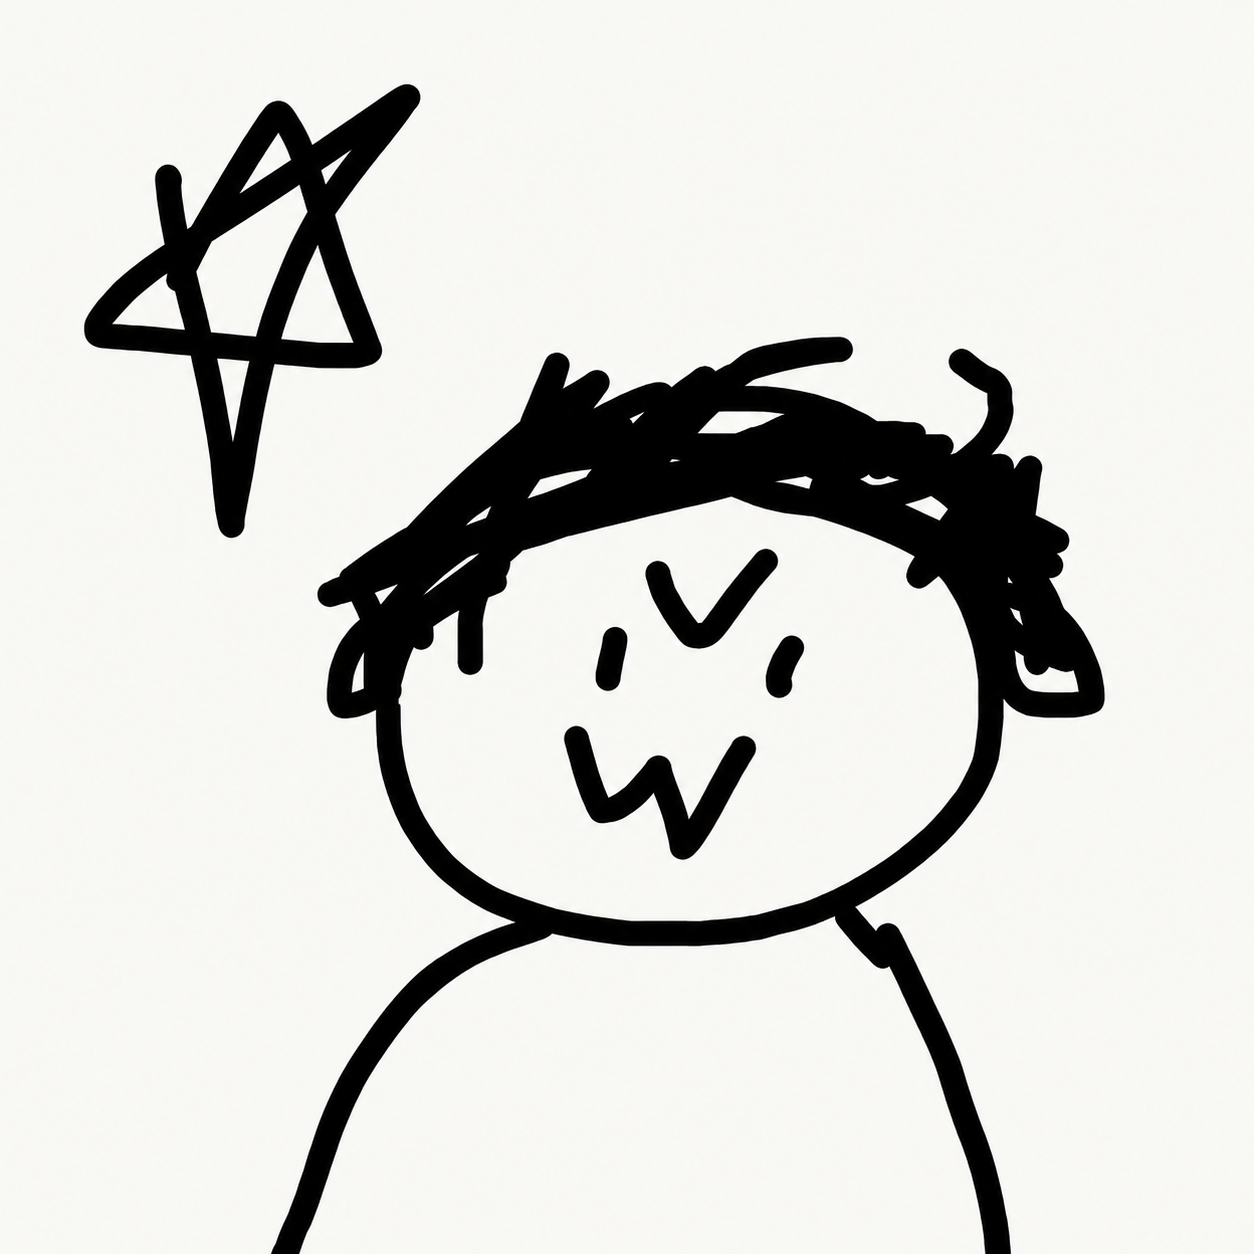
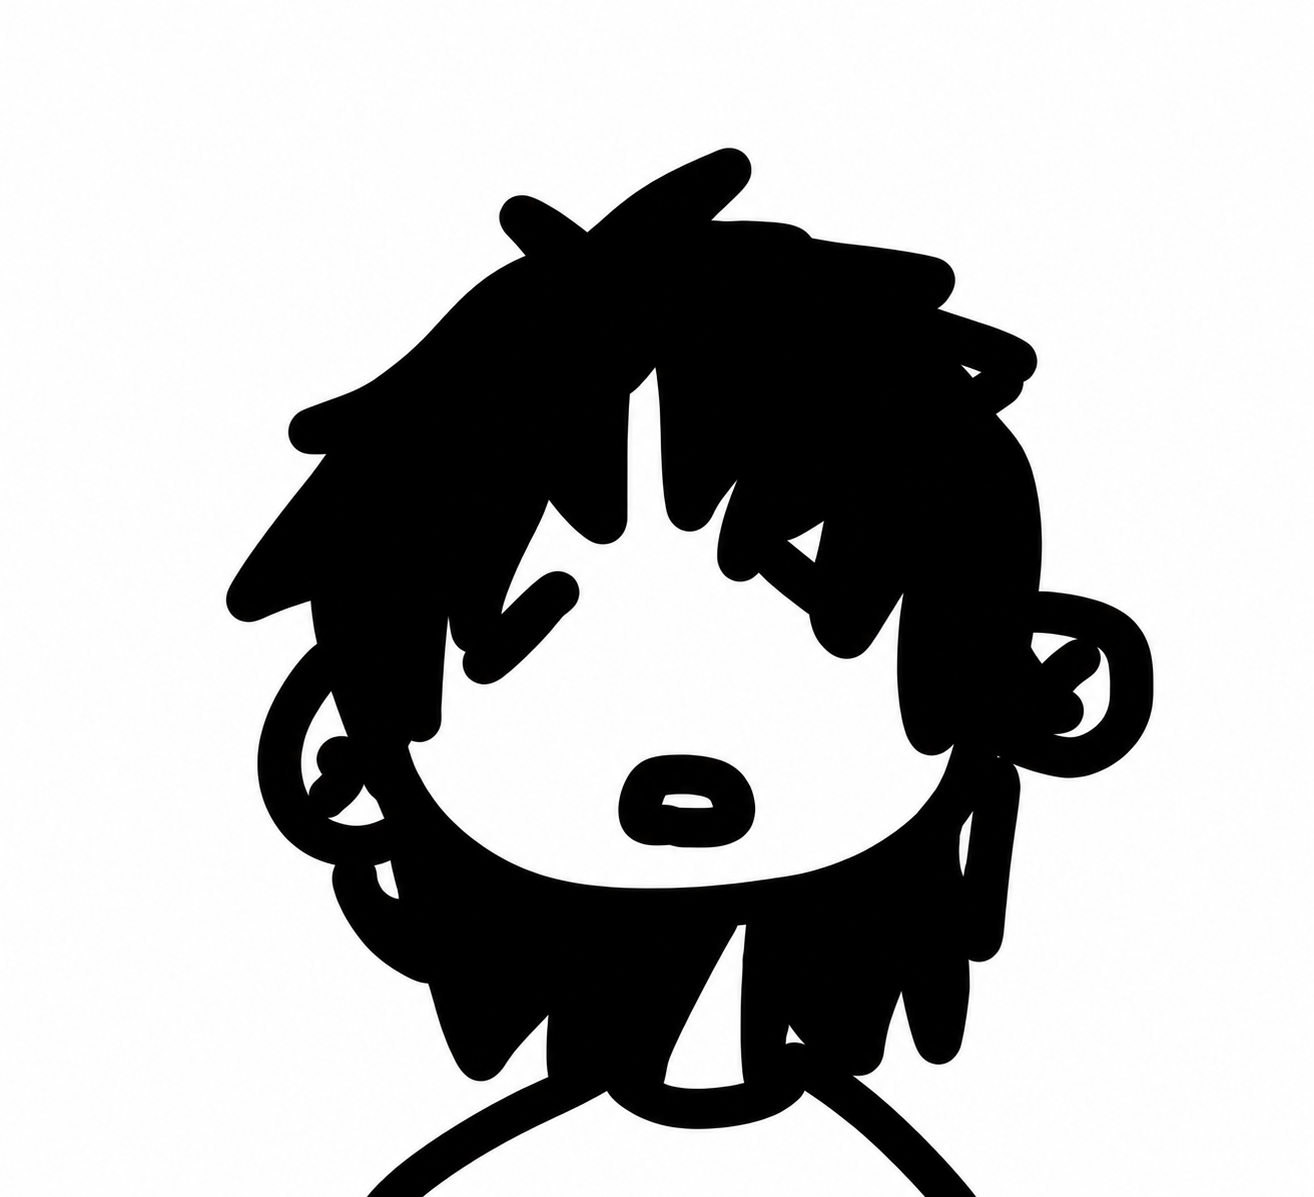
Update portfolio

Changed region(s): [[0.0622, 0.0618, 0.9019, 1.0], [0.4665, 0.4946, 0.4976, 0.5564], [0.3421, 0.4327, 0.3732, 0.4637]]

diff --git a/styles.css b/styles.css
@@ -11,6 +11,18 @@
     --radius: 3px;
   }
 
+  html.dark{
+    --paper: #050505;
+    --paper-dim: #0D0D0D;
+    --ink: #F2F2F2;
+    --ink-soft: #A6A6A6;
+    --ink-faint: #666666;
+    --line: #242424;
+    --accent: #35B8B5;
+    --accent-ink: #72D6D2;
+    --accent-tint: #102928;
+  }
+
   * { box-sizing: border-box; }
 
   html { scroll-behavior: smooth; }
@@ -23,6 +35,10 @@
     font-size:16px;
     line-height:1.6;
     -webkit-font-smoothing:antialiased;
+
+    transition:
+      background-color .25s ease,
+      color .25s ease;
   }
 
   a { color:inherit; }
@@ -49,7 +65,7 @@
     position:sticky;
     top:0;
     z-index:50;
-    background:rgba(250,250,248,0.86);
+    background:color-mix(in srgb, var(--paper) 86%, transparent);
     backdrop-filter: blur(8px);
     border-bottom:1px solid var(--line);
   }
@@ -93,6 +109,50 @@
     .nav-links a{ font-size:11px; }
   }
 
+  /* ---------- Theme Toggle ---------- */
+
+.theme-toggle{
+  width:38px;
+  height:38px;
+  display:flex;
+  align-items:center;
+  justify-content:center;
+  margin-left:24px;
+  padding:0;
+  border:1px solid var(--line);
+  border-radius:50%;
+  background:var(--paper);
+  color:var(--ink);
+  cursor:pointer;
+  font-family:'JetBrains Mono', monospace;
+  font-size:17px;
+  transition:
+    background .2s ease,
+    color .2s ease,
+    border-color .2s ease,
+    transform .2s ease;
+}
+
+.theme-toggle:hover{
+  border-color:var(--accent);
+  color:var(--accent-ink);
+  transform:rotate(10deg);
+}
+
+.theme-icon{
+  line-height:1;
+  display:block;
+}
+
+@media (max-width:640px){
+  .theme-toggle{
+    width:34px;
+    height:34px;
+    margin-left:12px;
+    font-size:15px;
+  }
+}
+
   /* ---------- Hero ---------- */
   .hero{
     padding:104px 0 88px;
@@ -123,7 +183,7 @@
     position:relative;
     z-index:1;
     width:100%;
-    aspect-ratio:4/5;
+    aspect-ratio:6/7;
     object-fit:cover;
     border-radius:var(--radius);
     border:1px solid var(--line);
@@ -199,6 +259,9 @@
     overflow:hidden;
     box-shadow: 0 1px 0 rgba(20,22,26,0.02);
   }
+  html.dark .console{
+    background:#000000;
+  }
   .console-bar{
     display:flex;
     align-items:center;
@@ -225,7 +288,13 @@
   }
   .console-body .prompt-line{ color:var(--ink-faint); }
   .console-body .prompt-line::before{ content:"> "; color:var(--accent); }
-  .console-out{ color:var(--ink); }
+  .console-out{
+    color:var(--ink);
+  }
+
+  html.dark .console-out{
+    color:#0E8E8D;
+  }
   .caret{
     display:inline-block;
     width:7px; height:15px;
@@ -284,7 +353,7 @@
   .config{
     border:1px solid var(--line);
     border-radius:var(--radius);
-    background:#fff;
+    background:var(--paper);
     overflow:hidden;
   }
   .config-title{
@@ -339,7 +408,7 @@
     border:1px solid var(--line);
     border-radius:20px;
     color:var(--ink-soft);
-    background:#fff;
+    background:var(--paper);
   }
   @media (max-width:760px){
     .skill-groups{ grid-template-columns:1fr; gap:26px; }
@@ -354,7 +423,7 @@
   .card{
     border:1px solid var(--line);
     border-radius:var(--radius);
-    background:#fff;
+    background:var(--paper);
     padding:26px 26px 24px;
     display:flex;
     flex-direction:column;

diff --git a/script.js b/script.js
@@ -1,4 +1,33 @@
-  // Signature hero element: types out a short rotating "model output"
+// ---------- Theme Toggle ----------
+
+const themeToggle = document.getElementById('themeToggle');
+const themeIcon = themeToggle.querySelector('.theme-icon');
+
+const savedTheme = localStorage.getItem('theme');
+
+if (
+  savedTheme === 'dark' ||
+  (!savedTheme && window.matchMedia('(prefers-color-scheme: dark)').matches)
+) {
+  document.documentElement.classList.add('dark');
+  themeIcon.textContent = '☀';
+  themeToggle.setAttribute('aria-label', 'Switch to light mode');
+}
+
+themeToggle.addEventListener('click', () => {
+  const isDark = document.documentElement.classList.toggle('dark');
+
+  localStorage.setItem('theme', isDark ? 'dark' : 'light');
+
+  themeIcon.textContent = isDark ? '☀' : '☾';
+
+  themeToggle.setAttribute(
+    'aria-label',
+    isDark ? 'Switch to light mode' : 'Switch to dark mode'
+  );
+});
+
+// Signature hero element: types out a short rotating "model output"
   const phrases = [
     "AI Engineer building production ML systems.",
     "Turning notebooks into reliable services.",

diff --git a/index.html b/index.html
@@ -21,6 +21,9 @@
       <li><a href="#projects">Projects</a></li>
       <li><a href="#contact">Contact</a></li>
     </ul>
+    <button class="theme-toggle" id="themeToggle" aria-label="Switch to dark mode" type="button">
+      <span class="theme-icon">☾</span>
+    </button>
   </div>
 </header>
 
